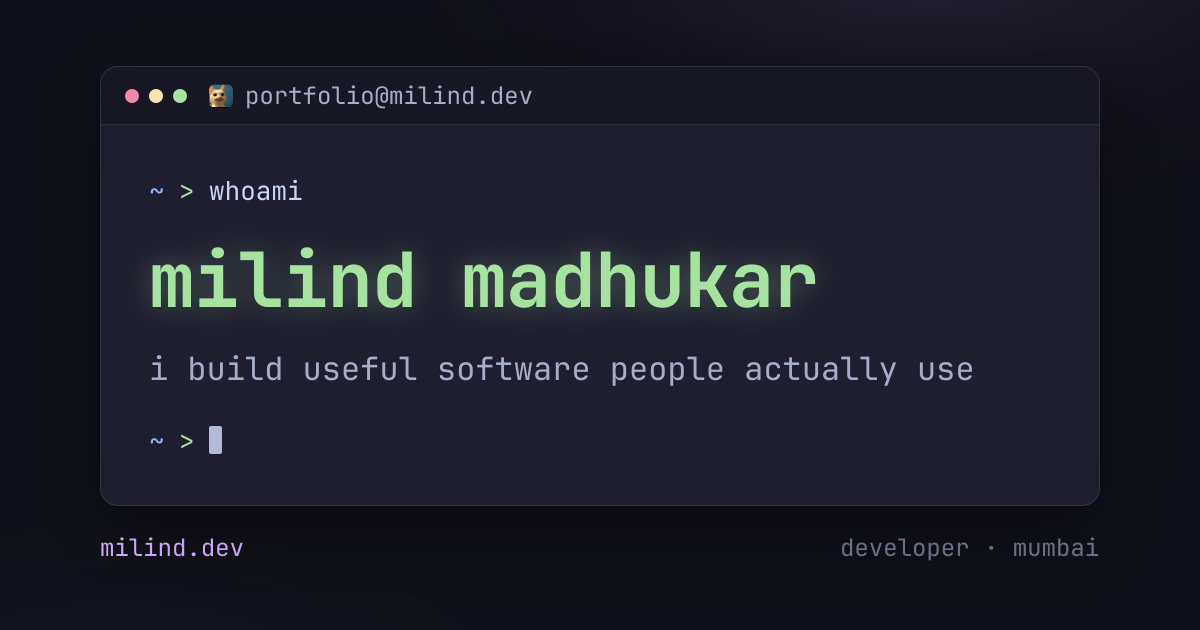
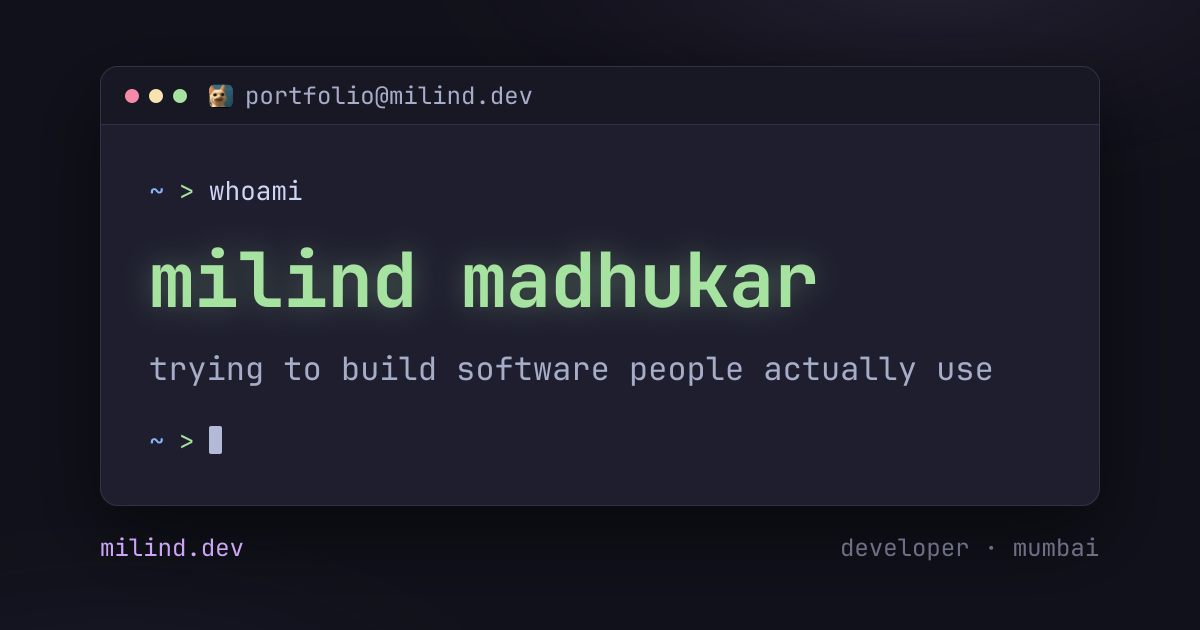
fix(seo): titles are prompts now, and descriptions fit the snippet
The descriptive title ran 61 chars, past where Google and X truncate, so every
title is the prompt that would produce the page: `portfolio@milind.dev` for the
home page, `:~ whoami` and `:~ ls projects/` for the deep links, and
`blog@milind.dev:~/posts` for the blog index. Distinct per URL, all well under
60, and no em dashes.

Descriptions now all land in the 120-160 band a SERP snippet wants: /whoami and
/projects were short, the blog index ran 226 chars and the post fallback 178.
Apostrophes are gone from every one of them — checkers that split
`content="I'm Milind…"` on the quote instead of parsing the attribute report the
description as one character long. The markup was always valid; there was just
nothing to gain from tripping them.

Two things that fell out of the title change:

- og:image:alt was the title, which described the card fine while the title was
  a sentence and not at all once it became a prompt. It gets its own line.
- og:description ignored a page's own description, so every blog post shared the
  site's generic one in link previews. It now prefers whatever the page set.

Also regenerates og.png, which still carried the old subtitle: the text changed
in generate-og.ts after the card was last built.

Claude-Session: https://claude.ai/code/session_0182e2escMmwBJCG32tq9phr

Changed region(s): [[0.1233, 0.5429, 0.8325, 0.6032]]

diff --git a/website/src/lib/constants.ts b/website/src/lib/constants.ts
@@ -35,7 +35,7 @@ export const personalInfo = {
   },
 
   bio: {
-    short: "I'm trying to build software people actually use, and I tinker with anything that has a chip in it.",
+    short: "Trying to build software people actually use, and tinkering with anything that has a chip in it.",
     // One line per line - both surfaces render this broken up rather than as
     // prose, and it follows the blog's lowercase house style.
     long: `${calculateAge(BIRTH_DATE)} years old. hooked on tech before i could spell it.
@@ -49,14 +49,27 @@ i run plusxhub, a 100k+ instagram community for fans like me.`,
   },
 
   // Purpose-built strings for SEO / social cards, in my own voice.
-  // seoTitle drives <title> + og:title (~60 chars, uses the SERP space well).
-  seoTitle: "Milind Madhukar: trying to build software people actually use",
-  // seoDescription drives <meta name="description"> (~148 chars for the snippet).
+  //
+  // Apostrophes are deliberately absent from every description here. Naive SEO
+  // checkers and scrapers read `content="I'm Milind…"` by splitting on the
+  // quote character rather than parsing the attribute, and report the
+  // description as one character long. The markup is valid either way, but
+  // there is nothing to gain from tripping them.
+  //
+  // seoTitle drives <title> + og:title. It's the prompt, not a sentence: a
+  // descriptive title ran 61 chars, past where Google and X truncate.
+  seoTitle: `${TERMINAL_CONFIG.user}@${TERMINAL_CONFIG.host}`,
+  // seoDescription drives <meta name="description"> (120-160 chars for the
+  // snippet), and carries the name that seoTitle no longer spells out.
   seoDescription:
-    "I'm Milind, a developer from Mumbai. I'm trying to build software people actually use, and I tinker with just about anything that has a chip in it.",
+    "Milind Madhukar, a developer from Mumbai. Trying to build software people actually use, and tinkering with just about anything that has a chip in it.",
   // ogDescription drives og:/twitter: descriptions (~114 chars, the social sweet spot).
   ogDescription:
     "Developer from Mumbai, trying to build software people actually use and tinkering with anything that has a chip in it.",
+  // og:image:alt — describes the share card itself, which the title used to do
+  // badly once it became a shell prompt.
+  ogImageAlt:
+    "A terminal window: the whoami command, the name milind madhukar in green, and the line trying to build software people actually use.",
 
   links: {
     plusxhub: "https://www.instagram.com/plusxhub/",
